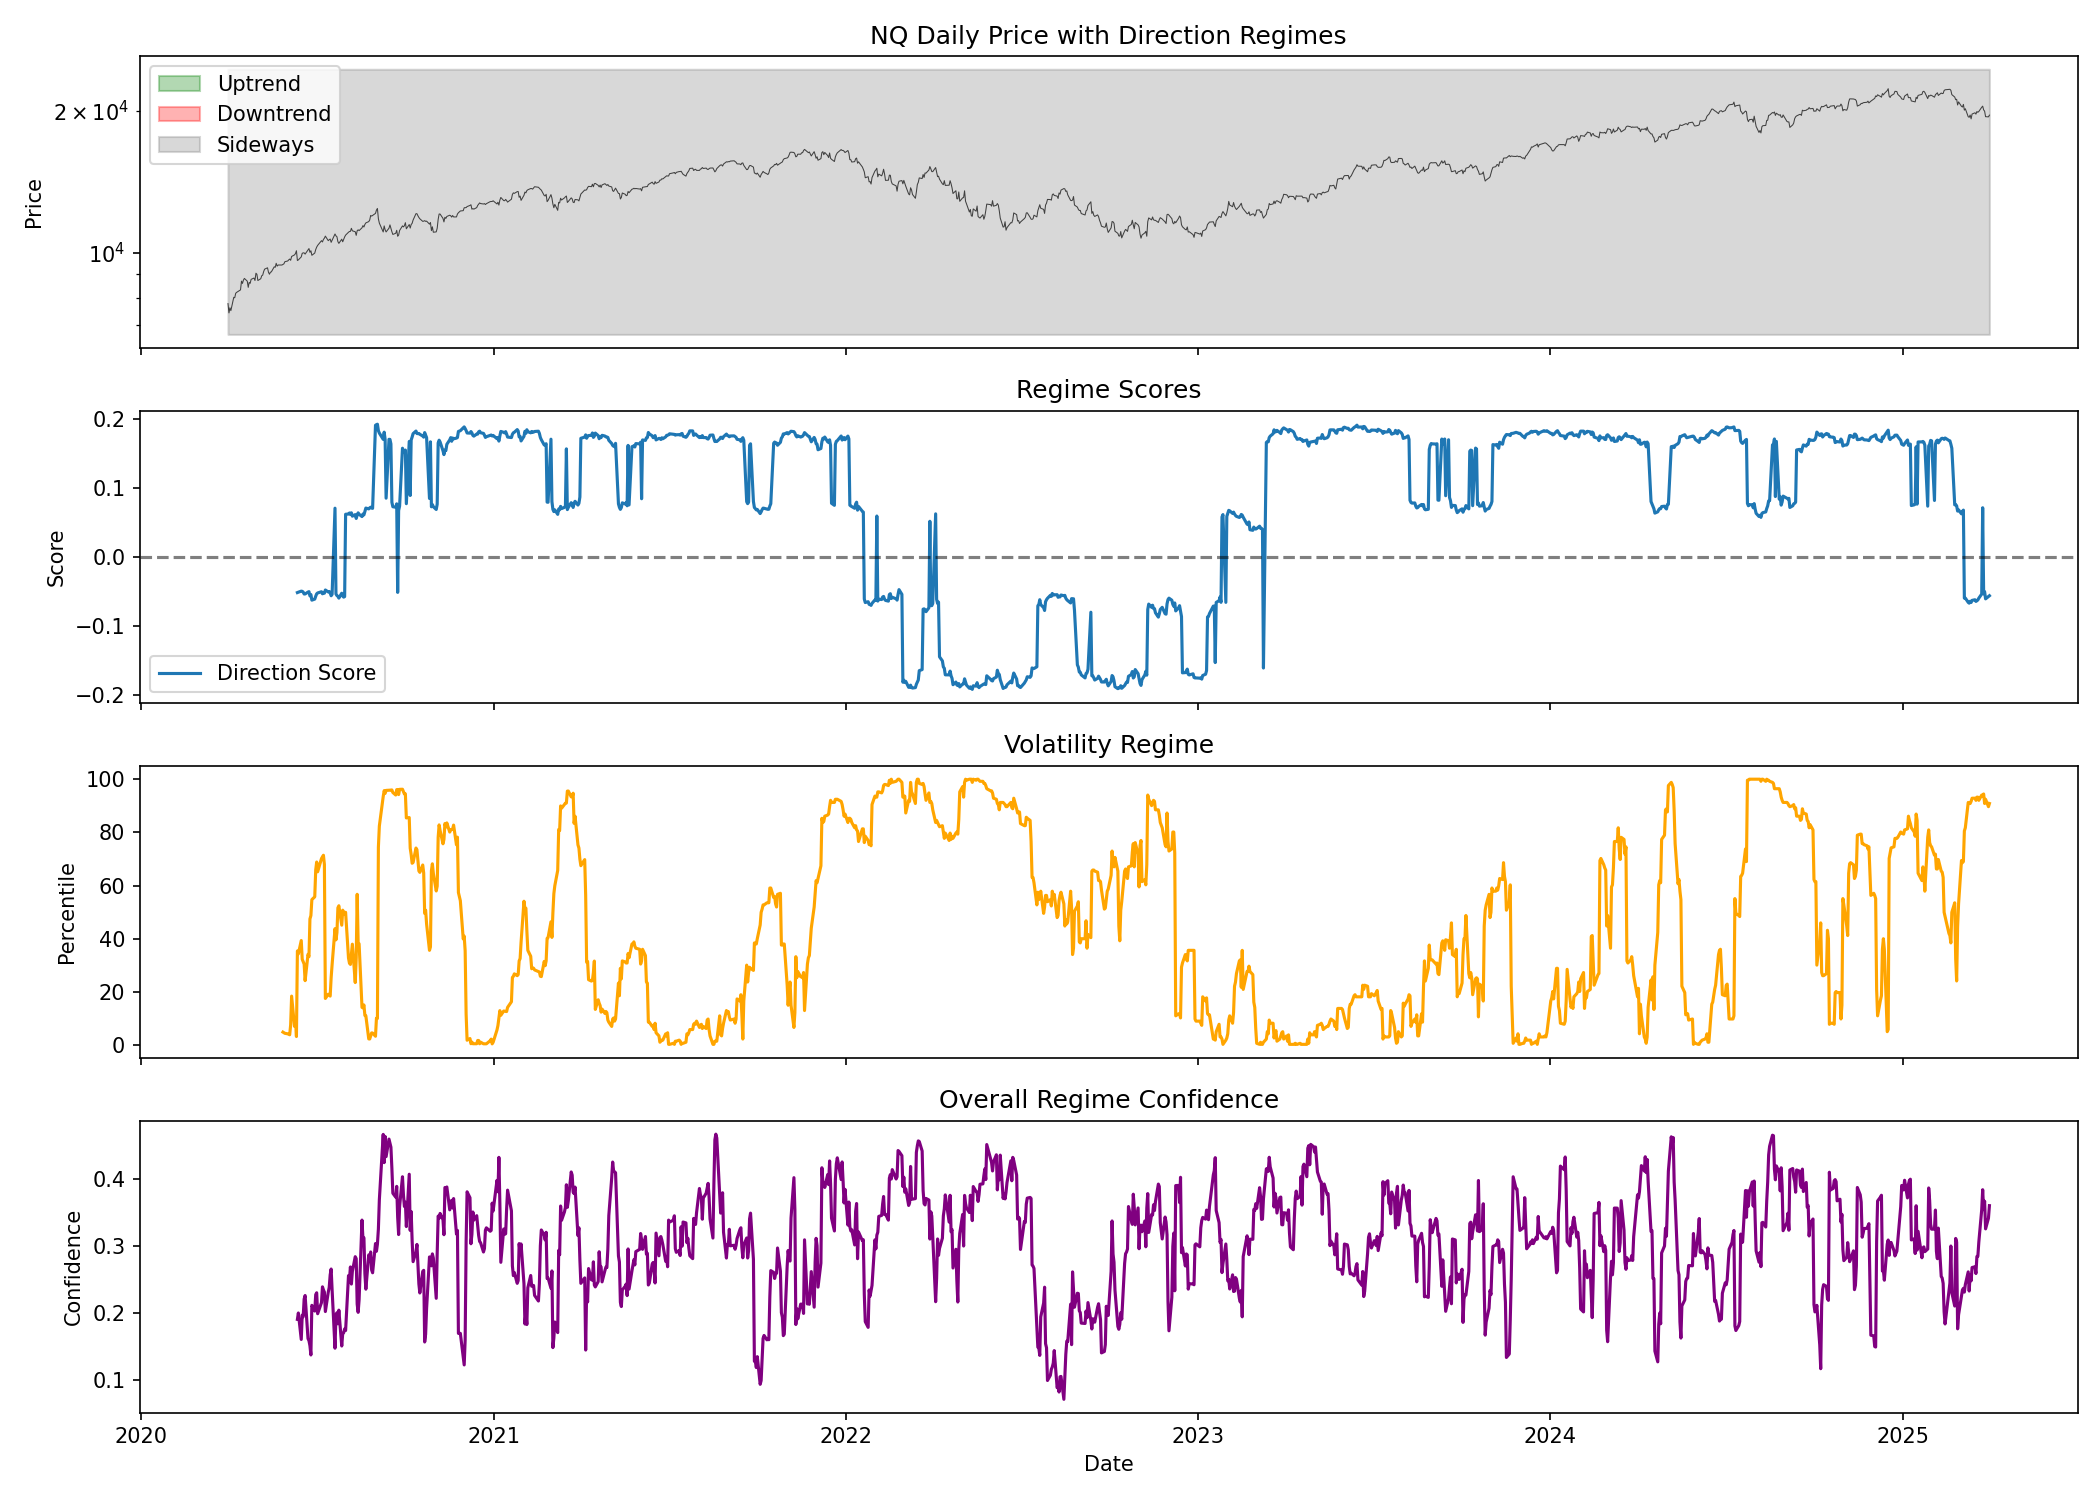
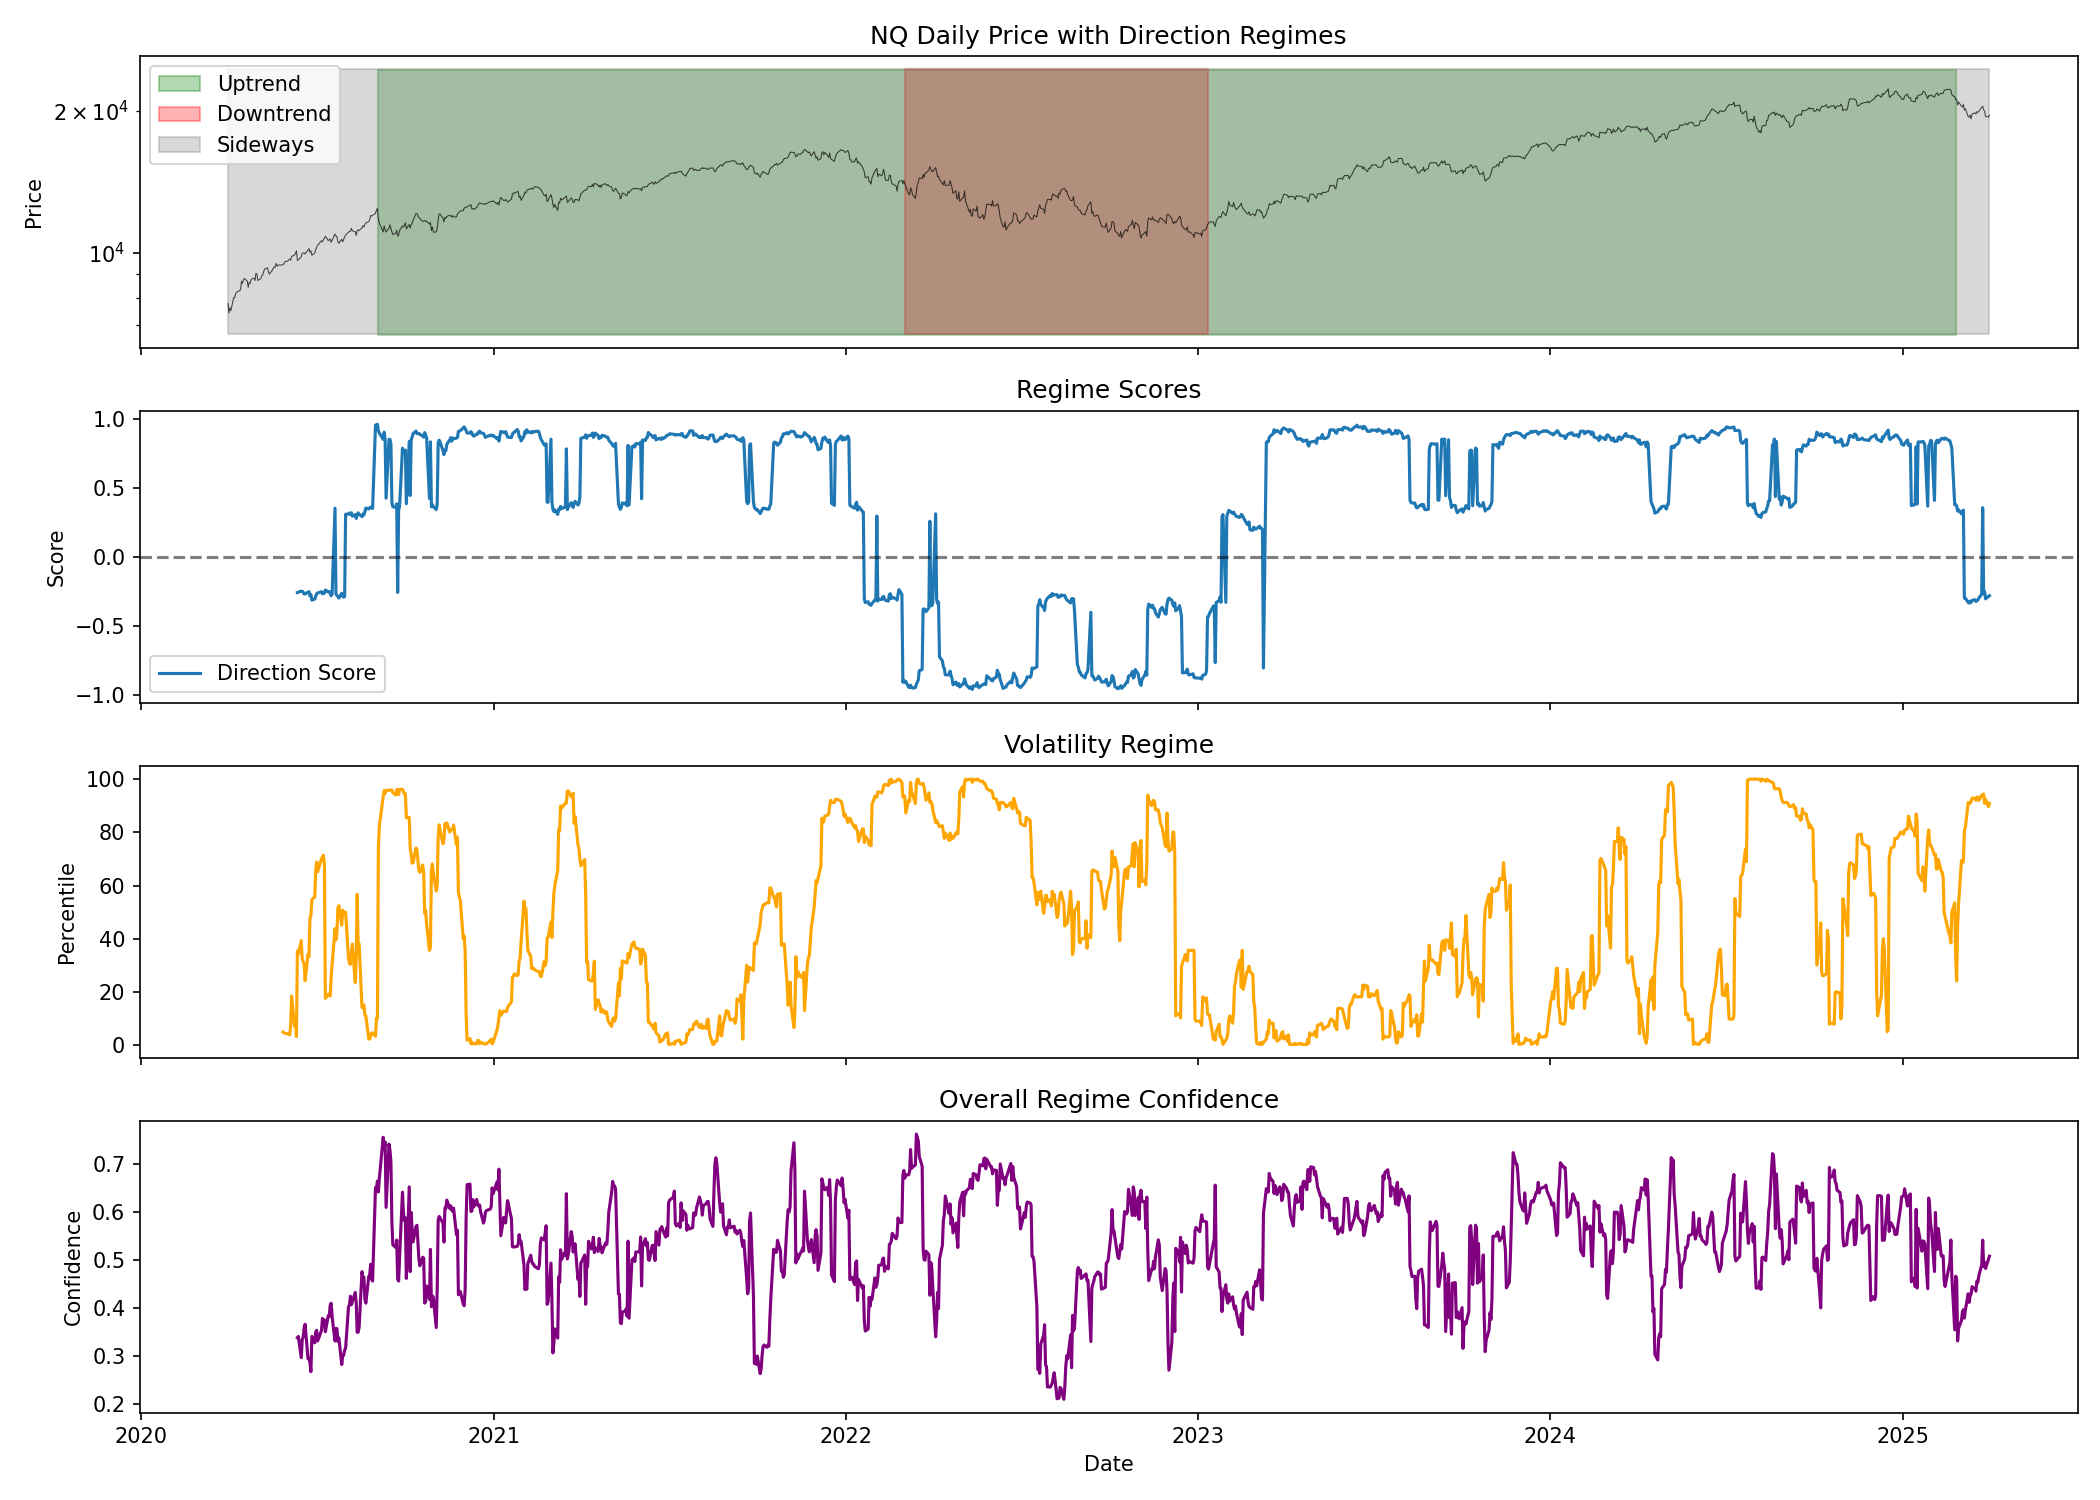
Auto-save-daily_regime_classifier

diff --git a/ob_model/v2.0_precloud_reorganization_and_clean/daily_regime_classifier.py b/ob_model/v2.0_precloud_reorganization_and_clean/daily_regime_classifier.py
@@ -65,16 +65,16 @@ class NQDailyRegimeClassifier:
         
         # NQ-specific thresholds (based on our analysis)
         self.thresholds = {
-            'trend_strong': 0.6,
+            'trend_strong': 0.5,
             'trend_weak': 0.3,
             'trend_neutral': 0.1,
             'vol_low': 25,
             'vol_normal': 75,
             'vol_high': 90,
-            'efficiency_trending': 0.5,
+            'efficiency_trending': 0.4,
             'efficiency_ranging': 0.3,
             'min_regime_days': 3,
-            'smoothing_days': 5,
+            'smoothing_days': 10,
         }
         
         # Define regime mappings
@@ -287,9 +287,9 @@ class NQDailyRegimeClassifier:
         if signal_count > 0:
             df['strength_score'] = strength_score
             
-        df.loc[df['strength_score'] > 0.6, 'strength_regime'] = 'Strong'
-        df.loc[(df['strength_score'] > 0.3) & (df['strength_score'] <= 0.6), 'strength_regime'] = 'Moderate'
-        df.loc[df['strength_score'] <= 0.3, 'strength_regime'] = 'Weak'
+        df.loc[df['strength_score'] > 0.5, 'strength_regime'] = 'Strong'
+        df.loc[(df['strength_score'] > 0.2) & (df['strength_score'] <= 0.5), 'strength_regime'] = 'Moderate'
+        df.loc[df['strength_score'] <= 0.2, 'strength_regime'] = 'Weak'
         
         return df
     
